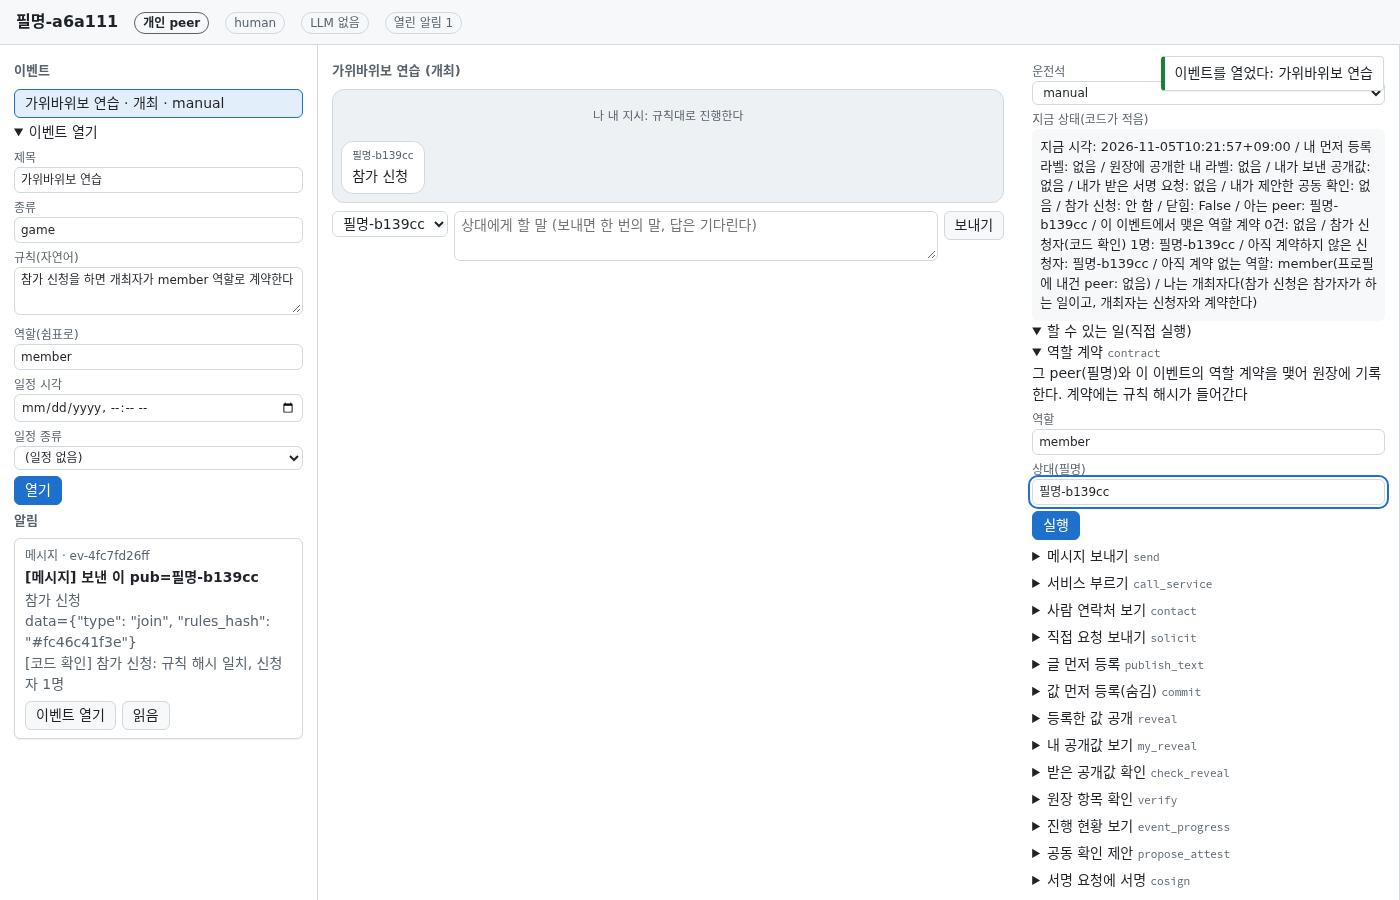
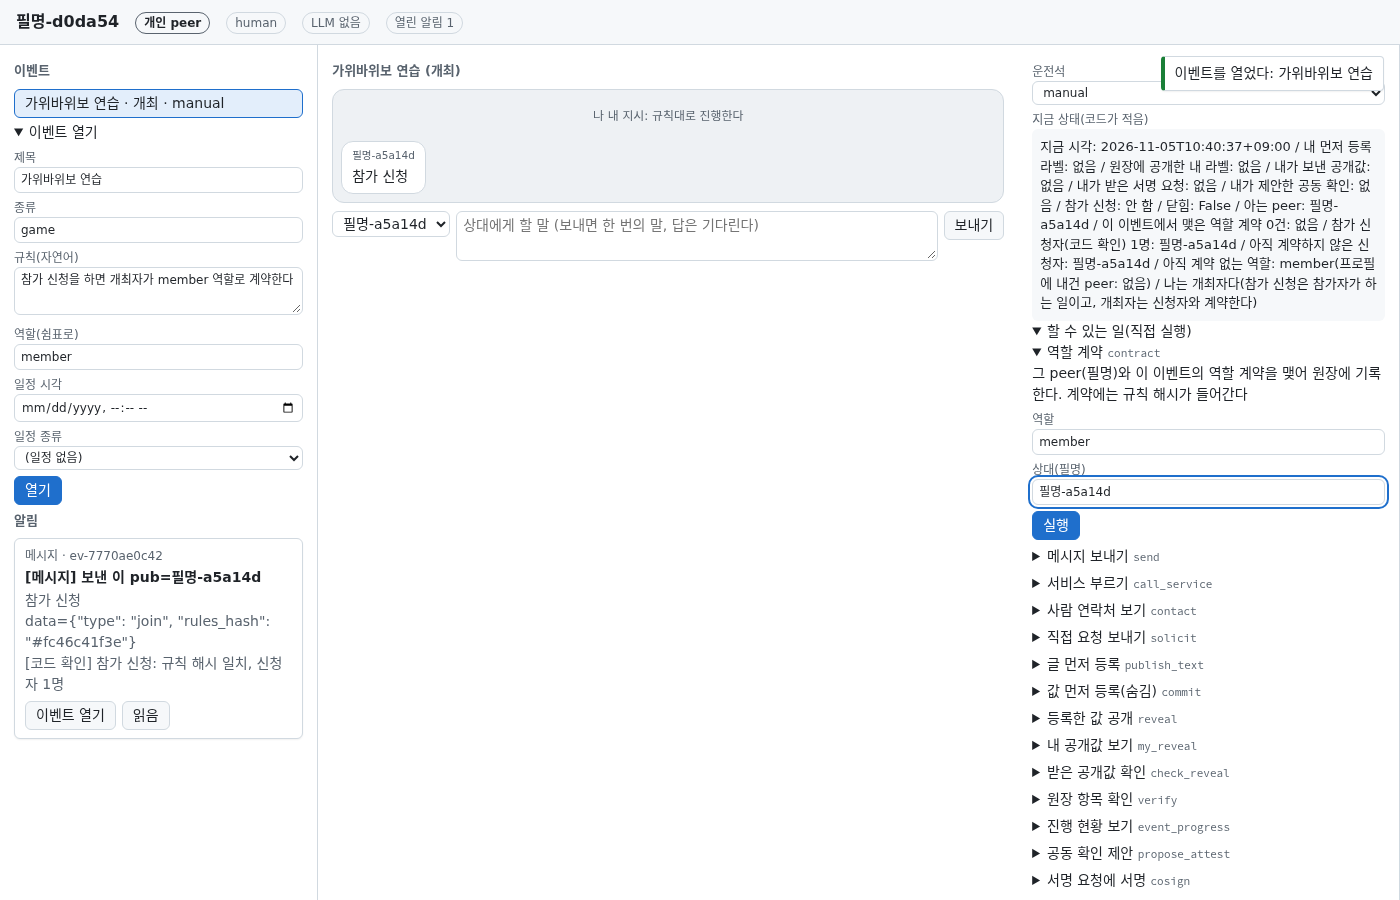
fix(ui): a tool form being typed in no longer closes and empties every two seconds; docs: the human + agent walk with captures (user 2026-11-05: "agent 포함 시나리오도 캡처해서 붙여줘")
Found while capturing the agent walk on a real run: the state line carries the clock to the second, and the console's side panel and the desk's event view used the state line in the key that decides whether to rebuild, so every poll (2 s) rebuilt them: an opened tool form closed and what was typed in it was lost. Now the key leaves the state line out and only the state line's text is renewed in place. Two browser tests move a fake clock while a form is half filled (red before, green after), one for the console, one for the desk.

docs/internal-network-test.md 10.7-1: the human + agent walk in nine captures taken with Playwright on a real genesis with the real LLM for the agent only: the agent hears of the event, joins by itself (no question card in this run; the doc says it may ask), the person contracts it, talks with it, watches its conversation, asks it in the my-agent panel, and the observer follows. The two-human captures are retaken for the behavior above; the doc no longer says the panel collapses. 10.13 lists what was and was not checked (question and suggestion cards, other drives).

diff --git a/arena/bundled/desk_web/static/js/views/event.js b/arena/bundled/desk_web/static/js/views/event.js
@@ -10,16 +10,20 @@ export class EventView {
   }
   render({ event, config }) {
     if (!event) return replace(this.root, h('div', { class: 'empty', testid: 'no-event' }, '왼쪽에서 이벤트를 고르면 여기에 보인다'));
-    const key = JSON.stringify([event.event_id, event.drive, event.transcript.length, event.state_line, event.tools.map(t => t.name), event.timers.length]);
-    if (key === this.lastKey) return;  // keep half-filled forms while polling
+    const key = JSON.stringify([event.event_id, event.drive, event.transcript.length, event.tools.map(t => t.name), event.timers.length]);
+    if (key === this.lastKey) {  // keep half-filled forms while polling: the state line carries the clock, so only its text is renewed
+      if (this.stateEl) this.stateEl.textContent = event.state_line;
+      return;
+    }
     this.lastKey = key;
     const forms = new ToolForm((name, args) => this.actions.runTool(event.event_id, name, args));
+    this.stateEl = h('div', { class: 'state', testid: 'state-line' }, event.state_line);
     const drive = h('select', { testid: 'drive', onchange: e => this.actions.setDrive(event.event_id, e.target.value) },
       (config?.drives || []).map(d => h('option', { value: d, selected: d === event.drive }, d)));
     replace(this.root,
       h('h2', { testid: 'event-title' }, `${event.title} (${event.role === 'host' ? '개최' : '참가'})`),
       h('label', {}, '운전석', drive),
-      h('label', {}, '지금 상태(코드가 적음)'), h('div', { class: 'state', testid: 'state-line' }, event.state_line),
+      h('label', {}, '지금 상태(코드가 적음)'), this.stateEl,
       event.schedule.length ? h('div', { testid: 'schedule' }, h('label', {}, '일정(원장)'),
         event.schedule.map(x => h('div', {}, `${x.when} ${x.code}${x.subject ? ' ' + x.subject : ''}${x.note ? ' · ' + x.note : ''}`))) : null,
       event.timers.length ? h('div', { testid: 'timers' }, h('label', {}, '예약'),

diff --git a/arena/bundled/console/static/js/views/side.js b/arena/bundled/console/static/js/views/side.js
@@ -8,15 +8,19 @@ export class SideView {
 
   render({ event, config }) {
     if (!event) { this.key = null; return replace(this.root); }
-    const key = JSON.stringify([event.event_id, event.drive, event.state_line, event.tools.map(t => t.name), event.timers.length]);
-    if (key === this.key) return;  // keep half-filled tool forms while polling
+    const key = JSON.stringify([event.event_id, event.drive, event.tools.map(t => t.name), event.timers.length]);
+    if (key === this.key) {  // keep half-filled tool forms while polling: the state line carries the clock, so only its text is renewed
+      if (this.stateEl) this.stateEl.textContent = event.state_line;
+      return;
+    }
     this.key = key;
     const forms = new ToolForm((name, args) => this.actions.runTool(event.event_id, name, args));
+    this.stateEl = h('div', { class: 'state', testid: 'state-line' }, event.state_line);
     const drive = h('select', { testid: 'drive', onchange: e => this.actions.setDrive(event.event_id, e.target.value) },
       (config?.drives || []).map(d => h('option', { value: d, selected: d === event.drive }, d)));
     replace(this.root,
       h('label', {}, '운전석', drive),
-      h('label', {}, '지금 상태(코드가 적음)'), h('div', { class: 'state', testid: 'state-line' }, event.state_line),
+      h('label', {}, '지금 상태(코드가 적음)'), this.stateEl,
       event.schedule.length ? h('div', { testid: 'schedule' }, h('label', {}, '일정(원장)'),
         event.schedule.map(x => h('div', {}, `${x.when} ${x.code}${x.subject ? ' ' + x.subject : ''}`))) : null,
       event.timers.length ? h('div', { testid: 'timers' }, h('label', {}, '예약'), event.timers.map(t => h('div', {}, `${t.when} ${t.kind}`))) : null,

diff --git a/tests/ui/test_console_ui.py b/tests/ui/test_console_ui.py
@@ -177,3 +177,24 @@ async def test_in_the_console_the_person_opens_an_event_with_a_schedule(eco, con
     assert "schedule" in await page.get_by_test_id("timers").inner_text()
     await page.get_by_test_id("line-note-instruction").wait_for(timeout=WAIT)  # my standing instruction, in the conversation
     assert next(iter(asst(p).events.values())).role == "host"
+
+
+async def test_a_half_filled_tool_form_survives_the_clock_moving(eco, console_site, browser):
+    """found on a real run (2026-11-05): the state line carries the clock, so the side panel was rebuilt on every poll and a
+    form being typed in closed and emptied within two seconds. Now only the state line's text is renewed."""
+    from tests.conftest import FakeClock
+    p, _, url = await console_site()
+    p.clock = fc = FakeClock()
+    ev = await hosted(eco)
+    await p.events.watch_once(p.ctx(p.events))
+    await settle(p)
+    page = await page_of(browser, url)
+    await page.locator(f'[data-testid="event-item"][data-id="{ev}"]').click()
+    await page.get_by_test_id("tools-box").locator("> summary").click(timeout=WAIT)
+    await page.get_by_test_id("tool-send").locator("summary").click(timeout=WAIT)
+    await page.get_by_test_id("tool-send").get_by_test_id("arg-text").fill("쓰는 중인 글")
+    before = await page.get_by_test_id("state-line").inner_text()
+    fc.tick(60)  # a minute later: the state line is different, the form must not be
+    await page.get_by_test_id("state-line").filter(has_not_text=before).wait_for(timeout=WAIT)
+    assert await page.get_by_test_id("tools-box").evaluate("e => e.open") is True
+    assert await page.get_by_test_id("tool-send").get_by_test_id("arg-text").input_value() == "쓰는 중인 글"

diff --git a/tests/ui/test_desk_ui.py b/tests/ui/test_desk_ui.py
@@ -152,3 +152,20 @@ async def test_p6p8_the_owner_opens_an_event_with_a_schedule(eco, site, browser)
     assert "schedule" in await page.get_by_test_id("timers").inner_text()
     st = next(iter(asst(p).events.values()))
     assert st.role == "host" and st.schedule[0]["code"] == "session"
+
+
+async def test_a_half_filled_tool_form_survives_the_clock_moving_on_the_desk(eco, site, browser):
+    """the same on the owner desk: the state line carries the clock; typing in a tool form must not be wiped by the poll"""
+    from tests.conftest import FakeClock
+    p, _, url = await site()
+    p.clock = fc = FakeClock()
+    ev = await hosted(eco)
+    await p.events.watch_once(p.ctx(p.events))
+    page = await page_of(browser, url)
+    await page.get_by_test_id("item-notice").get_by_test_id("open-event").click(timeout=WAIT)
+    await page.get_by_test_id("tool-send").locator("summary").click(timeout=WAIT)
+    await page.get_by_test_id("tool-send").get_by_test_id("arg-text").fill("쓰는 중인 글")
+    before = await page.get_by_test_id("state-line").inner_text()
+    fc.tick(60)
+    await page.get_by_test_id("state-line").filter(has_not_text=before).wait_for(timeout=WAIT)
+    assert await page.get_by_test_id("tool-send").get_by_test_id("arg-text").input_value() == "쓰는 중인 글"

diff --git a/docs/internal-network-test.md b/docs/internal-network-test.md
@@ -457,7 +457,7 @@ http://127.0.0.1:9330 agent ['이름:agent']
 - 이벤트를 열면 왼쪽 이벤트 목록에 `가위바위보 연습 · 개최 · manual`처럼 뜬다(`manual`은 운전석: 사람이 직접).
 - 상대 peer 창에는 몇 초 안에 공지 카드가 오고 카드에 **이벤트 열기** 버튼이 있다. 누르면 이벤트가 목록에 생긴다.
 - 참가 신청은 개최자 창 대화에 상대 필명과 함께 `참가 신청` 줄로 온다.
-- **오른쪽 "할 수 있는 일(직접 실행)" 패널은 이벤트의 상태가 바뀌면 다시 그려져 접히고 입력값이 지워진다.** 도구를 실행한 직후(예: `contract` 뒤)에는 패널을 다시 펼쳐서 다음 도구를 쓴다. 입력하는 동안에는 상태가 안 바뀌면 그대로다.
+- 오른쪽 "할 수 있는 일(직접 실행)" 패널은 **열어 둔 채로 남고 입력한 값도 그대로**다. 도구를 실행해도(예: `contract` 뒤) 접히지 않는다. 지금 상태 줄(시각 포함)의 글자만 계속 갱신된다. (2026-11-05 이전 판은 상태 줄의 시각 때문에 약 2초마다 패널이 다시 그려져 입력 중인 폼이 닫히고 지워졌다. 고쳤고 테스트가 있다. 이전 판이면 `git pull` 하세요.)
 - 도구를 실행하면 오른쪽 아래에 결과 알림(`contract → {"ok":true,"hash":…}`)이 잠깐(6초) 뜬다.
 
 ### 10.6 시나리오 T1: 서로 찾기
@@ -481,9 +481,9 @@ http://127.0.0.1:9330 agent ['이름:agent']
    - 일정은 비워 둔다. **열기**를 누른다.
    - **기대**: 왼쪽 이벤트 목록에 `가위바위보 연습`이 생기고, 대화에 "이벤트를 열었다"와 원장 기록이 가운데 작은 글로 남는다.
 2. **agent 창**을 본다(몇 초에서 수십 초: 공지를 받아 LLM이 판단한다).
-   - **기대**: 알림에 공지 카드가 오고, agent가 참가할지 **물음 카드**(소유자에게 묻기)를 띄운다. 이벤트 대화에 agent의 생각과 행동이 보인다(관전).
-   - 물음 카드가 안 오면: 10.10절의 "agent가 공지에 반응하지 않는다".
-3. agent 창에서 물음 카드에 **버튼으로 답하거나**, 대화 아래 "내 agent에게 지시" 칸에 `참가해`라고 쓰고 "지시"를 누른다.
+   - **기대**: 알림에 공지 카드가 오고, 이벤트 목록에 `가위바위보 연습 · 참가 · auto`가 생기며, 대화에 `내 agent 행동: 참가 신청 → 완료`가 보인다. **이 규칙에서는 agent가 소유자에게 묻지 않고 스스로 참가했다**(2026-11-05 확인, 아래 10.7-1). 같은 일이어도 LLM이 `물음 카드`(소유자에게 묻기)를 띄울 수 있다. 그러면 카드의 **예**를 누른다.
+   - 아무 반응이 없으면: 10.10절의 "agent가 공지에 반응하지 않는다".
+3. 참가하지 않았으면 agent 창 대화 아래 "내 agent에게 지시" 칸에 `참가해`라고 쓰고 "지시"를 누른다(없어도 되는 보조 수단).
    - **기대**: agent가 `join_event`로 참가 신청을 개최자(human-a)에게 a2a message로 보낸다.
 4. **human-a 창**의 그 이벤트 대화에 agent의 **참가 신청**이 왼쪽 말로 보인다.
 5. human-a 창 오른쪽 "할 수 있는 일(직접 실행)"을 펼쳐 `contract`를 실행한다.
@@ -496,6 +496,46 @@ http://127.0.0.1:9330 agent ['이름:agent']
    ```
    - **기대**: `genesis`(0번), `event`, `contract` 순으로 항목이 이어지고, `/audit`가 `"status":"ok"`로 답한다. 항목의 `event_id`(`ev-`로 시작)는 `payload` 안에 있다.
    - 한 이벤트만 보려면 `/events/<event_id>`. `event_id`는 창에 나오지 않는다: 위 `/log`에서 찾거나, 브라우저 개발자 도구(F12)에서 왼쪽 이벤트 버튼의 `data-id`를 본다.
+
+### 10.7-1 화면으로 보는 사람 + agent 흐름 (캡처)
+
+> 2026-11-05, 이 서버에서 Playwright로 `--peers human-a,agent`를 띄우고 따라가며 찍었다(agent는 `.env`의 실제 LLM을 썼고, 이 한 번의 실행에 LLM 호출이 몇 번 들었다). 필명과 event id는 실행마다 다르고, agent의 말투와 판단은 LLM에 따라 다르다. 필명 `필명-8c185c`는 human-a, `필명-489ffb`는 agent다.
+
+**① agent 창을 연다.** 태그가 `개인 peer`, `agent`, `LLM 있음`이다. 오른쪽 위에 **내 agent** 칸이 있다(LLM 없는 human peer에는 없다).
+
+![agent 창: 처음](img/internal-network-test/agent-01-agent-start.png)
+
+**② human-a가 이벤트를 열면(10.7의 1번) agent 창에 공지 카드가 온다.** 사람이 아무것도 누르지 않아도 온다.
+
+![agent 창: 공지 카드](img/internal-network-test/agent-02-agent-notice.png)
+
+**③ agent가 스스로 판단해 참가한다.** 이벤트를 열어 보면 대화에 공지와 `내 agent 행동: 참가 신청 → 완료`가 있다. 이벤트 목록의 운전석은 `auto`(agent가 운전). 이 규칙에서는 소유자에게 묻지 않았다.
+
+![agent 창: agent가 스스로 참가](img/internal-network-test/agent-03-agent-decides.png)
+
+**④ human-a 창에 agent의 참가 신청이 온다.** 알림에 메시지 카드, 대화에 agent의 필명과 `참가 신청`.
+
+![human-a 창: agent의 참가 신청](img/internal-network-test/agent-04-human-a-join-seen.png)
+
+**⑤ human-a가 `contract`로 agent와 role `member` 계약을 맺는다.** (상대 칸에 agent의 필명) 결과 알림 `contract → {"ok":true,…}`, 지금 상태에 `계약 1건: member=<agent 필명>`. 폼은 열린 채로 남는다.
+
+![human-a 창: agent와 계약](img/internal-network-test/agent-05-human-a-contract-done.png)
+
+**⑥ human-a가 agent에게 말을 건다.** 받는 이를 agent로 두고 `안녕, 이 이벤트의 규칙을 한 줄로 설명해 줄래?`를 보내면, agent의 답이 **왼쪽 말풍선**으로 온다(이 실행에서는 몇 초 만에).
+
+![human-a 창: agent의 답](img/internal-network-test/agent-06-human-a-agent-reply.png)
+
+**⑦ agent 창에서 같은 대화를 본다(관전).** 받은 말은 왼쪽, agent가 한 말은 오른쪽(`내 agent → 상대`), agent의 생각(`내 agent 생각: …`, LLM이 쓴 글이라 영어일 수 있다), 원장 기록(`원장: 2 contract …`)은 가운데 작은 글로 보인다.
+
+![agent 창: 대화 전체](img/internal-network-test/agent-07-agent-conversation.png)
+
+**⑧ 소유자가 자기 agent와 대화한다.** 오른쪽 위 **내 agent** 칸에 `지금 무슨 이벤트 있어?`라고 쓰고 "말하기". 이것은 a2a가 아니라 agent와 그 소유자 사이의 대화다. 답: 참여 중인 이벤트 `가위바위보 연습`(역할 participant, 운전석 auto, 진행 중).
+
+![agent 창: 내 agent와 대화](img/internal-network-test/agent-08-my-agent-panel.png)
+
+**⑨ 관전 창은 이 모든 것을 새로고침 없이 따라 올라왔다.** (`genesis`, `event`, `contract`)
+
+![관전 창: 끝](img/internal-network-test/agent-09-observer-end.png)
 
 ### 10.8 시나리오 T3: 사용자(human-a)가 agent에게 말을 건다
 
@@ -594,7 +634,7 @@ ARENA_LLM_BACKEND=none .venv/bin/python -m scripts.try_personal --fresh --peers 
 
 ![human-a: 계약 도구 입력](img/internal-network-test/08-human-a-contract-form.png)
 
-**⑨ 실행하면 계약이 맺어진다.** 대화에 `나 행동: 역할 계약 → 완료`, 지금 상태에 `이 이벤트에서 맺은 역할 계약 1건: member=<human-b 필명>`, 오른쪽 위에 결과 알림(`contract → {"ok":true,"hash":…}`). 패널이 다시 그려져 접혔다.
+**⑨ 실행하면 계약이 맺어진다.** 대화에 `나 행동: 역할 계약 → 완료`, 지금 상태에 `이 이벤트에서 맺은 역할 계약 1건: member=<human-b 필명>`, 오른쪽 위에 결과 알림(`contract → {"ok":true,"hash":…}`). 패널은 열린 채로 남는다.
 
 ![human-a: 계약 완료](img/internal-network-test/09-human-a-contract-done.png)
 
@@ -626,4 +666,6 @@ ARENA_LLM_BACKEND=none .venv/bin/python -m scripts.try_personal --fresh --peers 
   7. 원장: `/log?from=0`이 `genesis, event, contract, contract`, `/audit`가 `ok`, `/trust`, `/events/<id>`, `/track/<공개키>`가 답한다. `/chain`은 서명이 필요하다.
   8. **관전 창**(9304)을 시작 때 열어 두었더니 항목 1개(`genesis`)로 시작해, 새로고침 없이 `genesis, event, contract, contract` 4개로 올라왔다(종류가 새것 위로). 무결성은 정상, 기록자 1, peer 4(human-a, human-b, 기록자, god).
   9. 페이지 오류(JS)는 없었다. 끝난 뒤 프로세스 3개가 모두 내려갔다.
-- **확인하지 못함**: agent가 있는 T2·T3(공지에 대한 물음 카드, agent의 참가·답). LLM 호출이 들어서 아직 하지 않았다. 해 보시고 화면이 다르면 알려 주세요. agent의 반응 시간과 말투는 LLM에 따라 다르다.
+- **agent가 있는 T2·T3도 확인함** (2026-11-05, 실제 LLM, 10.7-1의 캡처): agent가 공지를 받아 스스로 참가 → human-a가 계약 → 말을 걸면 agent가 답 → 소유자가 "내 agent" 칸으로 묻고 답을 받음. 물음 카드(소유자에게 묻기)는 이 규칙에서는 뜨지 않았다. 규칙이나 LLM에 따라 뜰 수 있어 그 경로는 확인하지 못했다.
+- **확인하지 못함**: 물음 카드·제안 카드(승인/거절)가 뜨는 경우, 운전석을 `manual`/`suggest`로 바꾼 agent. agent의 반응 시간과 말투는 LLM에 따라 다르다.
+- **시험 중에 찾아 고친 것**: 상태 줄의 시각 때문에 도구 폼이 약 2초마다 닫히고 입력이 지워지던 문제(console, desk 둘 다). 오른쪽 패널은 이제 글자만 갱신한다.
